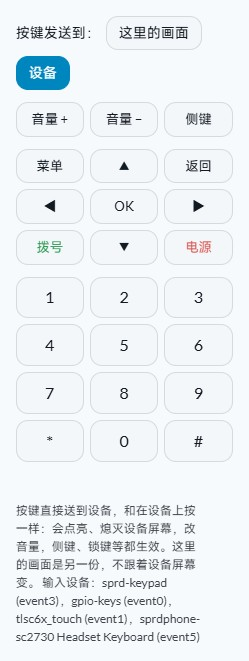
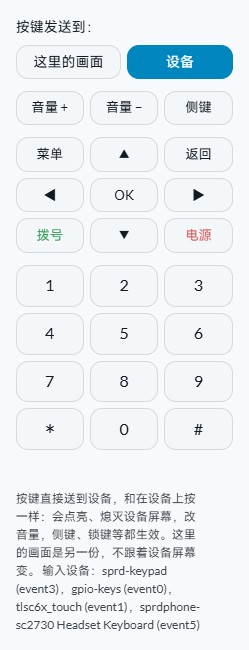
v1.6: 按键区排版修正
「按键发送到」的标签单独一行，两个按钮两列等宽，不再换行；* 键放大、下移，
和数字一样大。README 截图重拍。

diff --git a/webapps/luci/screen.js b/webapps/luci/screen.js
@@ -163,7 +163,10 @@ return view.extend({
 				'class': 'btn cbi-button', 'type': 'button', 'title': TITLES[k] || '',
 				'style': 'min-width:0;width:100%;height:2.6em;margin:0;padding:0 .2em;touch-action:none;user-select:none;' +
 					'font-size:' + (k.length == 1 ? '1.15em' : '0.95em') + (k == 'power' ? ';color:#d9534f' : (k == 'call' ? ';color:#2e9a52' : ''))
-			}, KEYS[k][0]);
+			}, k == '*'
+				// (an asterisk is small and high in most fonts: larger, lowered, the line kept)
+				? E('span', { 'style': 'font-size:1.6em;line-height:0;position:relative;top:.22em' }, '*')
+				: KEYS[k][0]);
 			b.addEventListener('pointerdown', (e) => {
 				if (e.button != 0) return;
 				e.preventDefault();
@@ -188,7 +191,8 @@ return view.extend({
 		}, g[1].map(keyButton)));
 
 		const targetButtons = [ [ 'page', '这里的画面' ], [ 'device', '设备' ] ].map((t) => E('button', {
-			'class': 'btn cbi-button', 'type': 'button', 'data-target': t[0], 'style': 'margin:0',
+			'class': 'btn cbi-button', 'type': 'button', 'data-target': t[0],
+			'style': 'min-width:0;width:100%;height:2.4em;margin:0;padding:0 .2em',
 			'click': () => {
 				releaseAll();
 				target = t[0];
@@ -220,8 +224,9 @@ return view.extend({
 		window.addEventListener('pagehide', releaseAll);
 
 		const keypad = E('div', { 'style': 'width:15.5em;flex:none' }, [
-			E('div', { 'style': 'display:flex;gap:6px;align-items:center;margin-bottom:12px;flex-wrap:wrap' },
-				[ E('span', {}, '按键发送到：') ].concat(targetButtons)),
+			// (the label on a line of its own: beside it, the buttons wrap in some themes)
+			E('div', { 'style': 'margin-bottom:6px' }, '按键发送到：'),
+			E('div', { 'style': 'display:grid;grid-template-columns:repeat(2,1fr);gap:6px;margin-bottom:12px' }, targetButtons),
 			groups[0],
 			groups[1],
 			groups[2],
